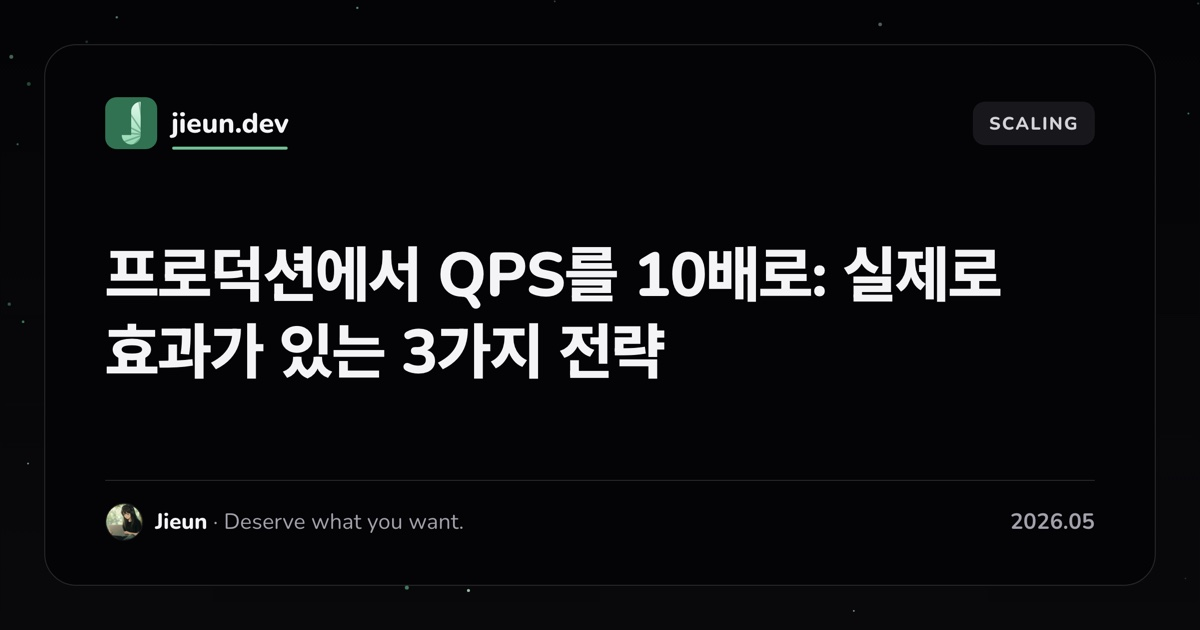
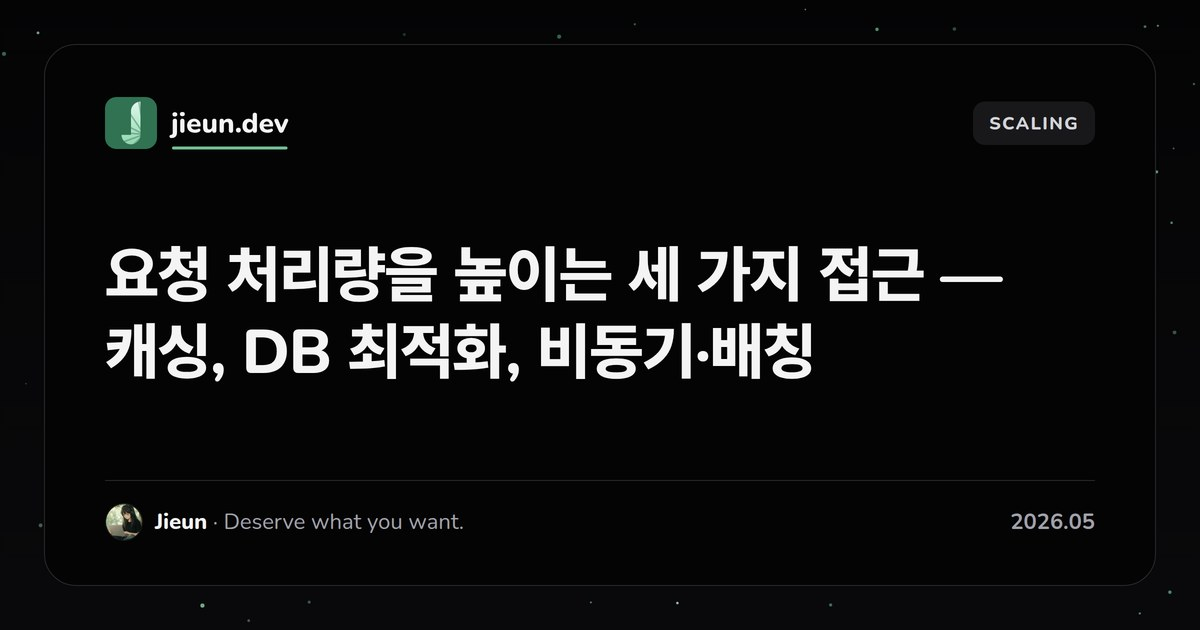
docs: qualify QPS claims with load-test evidence

diff --git a/src/content/blog/ko/scaling-qps-10x-in-production-3-strategies-that-actually-move-the-needle.md b/src/content/blog/ko/scaling-qps-10x-in-production-3-strategies-that-actually-move-the-needle.md
@@ -1,24 +1,40 @@
 ---
-title: '프로덕션에서 QPS를 10배로: 실제로 효과가 있는 3가지 전략'
-description: '"더 빠르게 만들어라"는 막연해 보이지만 아닙니다. 결국 같은 세 가지 수로 수렴합니다 — 캐싱, 데이터베이스 최적화, 그리고 요청에서 부수적인 일을 들어내기.'
+title: '요청 처리량을 높이는 세 가지 접근 — 캐싱, DB 최적화, 비동기·배칭'
+description: '캐싱, DB 최적화, 비동기·배칭이 줄이는 작업을 살펴봅니다. 부하 테스트 기록과 설명용 계산을 구분하고, 처리량 개선을 판단할 측정 조건을 정리합니다.'
 subtitle: "서비스의 요청 처리량을 높이는 접근을 캐싱, 데이터베이스 최적화, 부수 작업 분리로 나누어 설명합니다. 각 전략이 줄일 수 있는 병목은 무엇이며, 적용 전에 어떤 조건을 확인해야 하는지 살펴봅니다."
 pubDate: 2026-05-29
+updatedDate: 2026-10-18
 tags: ['system-design', 'caching', 'performance', 'optimization']
 category: scaling
 cover: /covers/scaling-qps-10x-in-production-3-strategies-that-actually-move-the-needle.webp
-coverAlt: '프로덕션에서 QPS를 10배로: 실제로 효과가 있는 3가지 전략'
+coverAlt: '요청 처리량을 높이는 세 가지 접근 — 캐싱, DB 최적화, 비동기·배칭'
 ---
 ## 들어가며
 
-> "더 빠르게 만들어라"는 말은 막연한 지시처럼 들립니다. 하지만 그렇지 않습니다. 성능 작업은 알고 보면 백엔드 엔지니어링에서 가장 _배우기 쉬운_ 영역 중 하나인데, 거의 항상 똑같은 세 가지 수(手)로 귀결되기 때문입니다. 아래는 제가 프로덕션에 실제로 적용했던 세 가지이며, 이 작업으로 QPS를 10배 이상 끌어올렸습니다.
+요청 처리량을 높이려면 먼저 어떤 작업이 요청을 붙잡고 있는지 확인해야 합니다. 같은 데이터를 반복해서 조회하는지, DB 쿼리와 커넥션 대기가 긴지, 응답 전에 끝낼 필요가 없는 외부 호출이 섞여 있는지에 따라 선택이 달라집니다.
 
-지금 제가 실제로 생각하는 방식 그대로 하나씩 짚어 보겠습니다. **병목이 생기는 이유 → 고치는 방법 → 실제 효과** 순서입니다.
+이 글에서는 캐싱, 데이터베이스 최적화, 비동기·배칭이 각각 줄이는 작업과 그 대가를 설명합니다. 아래의 코드와 시간 계산은 원리를 보여주는 예시입니다. 실제 부하 테스트 기록은 별도로 구분합니다.
+
+> [!NOTE]
+> 초판에서는 이 세 가지 적용으로 프로덕션 QPS가 10배 이상 늘었다고 서술했습니다. 2026년 10월 18일 관련 GitHub 이슈와 부하 테스트 저장소를 다시 확인했지만, 같은 API·인프라·부하 조건에서 그 개선 배수를 입증하는 전후 기록은 확인하지 못했습니다. 제목과 결론을 수정하고, 근거를 확인하지 못한 적용 사례와 수치는 설명용 예시로 구분했습니다.
+
+### 확인한 부하 테스트 기록의 범위
+
+| 기록 | 측정 조건 | 확인된 결과 | 해석 범위 |
+| --- | --- | --- | --- |
+| 2026-05-06 메시지 API smoke | 목표 100 TPS, 2분, sender-channel pair 2,720개 순환, expected trace off | 성공 전송 99.67건/초, HTTP p95 59.42ms, 5xx 1건 | 5xx 0건 기준을 충족하지 못한 실행입니다. 최적화 전후 비교가 아닙니다. |
+| 같은 날 1,000 TPS smoke | 같은 메시지 전송 시나리오에서 목표 부하와 VU 설정 증가 | HTTP 177.65 RPS, 성공 전송 99.86건/초, HTTP 실패율 43.79% | 목표 부하를 10배로 올린 실행입니다. 처리량 10배 달성을 뜻하지 않습니다. |
+| 2026-03-05 WebSocket pub/sub 테스트 | 서버 2대, 각각 16 vCPU·58GB, 총 10만 연결, 단계별 90초 | Step 3 합산 23,504 TPS, 두 클라이언트 중 높은 p99 905.41ms | DB 저장·HTTP 메시지 API·푸시를 제외한 인프라 테스트입니다. 메시지 API QPS와 직접 비교할 수 없습니다. |
+
+앞의 두 기록은 `witim-load-test`의 `results/2026-05-06-100tps-off-smoke-results.md`와 `results/2026-05-06-1k-tps-smoke-results.md`, 세 번째는 `25k-tps-message-load-test`의 `pub&sub/STRESS-TEST-REPORT-2026-03-05.md`를 기준으로 확인했습니다. WebSocket Step 3에는 소량의 오류와 패킷 로스도 기록돼 있어 무손실 처리량으로 표현하지 않습니다.
+
+이 표는 개선 전후 비교표가 아닙니다. **목표 요청률, 실제 요청률, 성공 처리량, 전달 완료율은 서로 다른 지표**이며, 개선 배수를 계산하려면 같은 경로와 성공 기준의 전후 결과가 필요합니다.
 
 <a id="먼저-qps란-_무엇_이며-왜-한계에-부딪히는가"></a>
 
 ## 먼저, QPS란 _무엇_이며 왜 한계에 부딪히는지
 
-QPS(Queries Per Second)는 그저 **초당 처리하는 요청 수**입니다. 하지만 의지만으로 높일 수는 없습니다. QPS는 다음 공식에 묶여 있습니다.
+이 글에서는 QPS를 API가 초당 처리하는 요청 수라는 의미로 사용합니다. DB 쿼리 수나 WebSocket 메시지 수와는 측정 단위를 구분해야 합니다. 다음 식은 워커 하나가 한 번에 요청 하나를 처리하고 충분한 요청이 들어오는 상황을 단순화한 모델입니다.
 
 ```plaintext
 QPS ≈ number of concurrent workers / time to process one request
@@ -39,14 +55,14 @@ QPS = cashiers / time-per-customer   →   3 / 0.1s = 30 QPS
 
 문제는 손님이 그보다 빠르게 몰려들 때 시작됩니다. 30-QPS짜리 가게에 **초당 40명의 손님**이 들어오면, 줄은 매초 10명씩 늘어나고 → 대기 시간이 급격히 길어지고 → 손님이 나가버리며(타임아웃) → 가게가 멈춥니다(장애). 서버도 정확히 똑같이 동작합니다.
 
-**그래서 QPS를 높이는 방법은 딱 두 가지뿐입니다.**
+이 글에서는 동시 처리 자원을 늘리는 방법 외에, 다음 두 방향을 살펴봅니다.
 
 1.  **분모를 줄이기** (요청당 시간) → 캐싱, DB 최적화
     
 2.  **분모에서 작업을 _빼내기_** — 요청 안에서 반드시 일어날 필요가 없는 모든 것 → 비동기 / 배칭
     
 
-아래 세 가지 전략은 정확히 이 두 개의 레버를 공략합니다. 그리고 실무에서 튜닝을 시작할 때는 이 순서대로 손을 대게 됩니다. 이것이 가장 가성비가 좋은 순서이기 때문입니다. **캐싱 → DB 최적화 → 비동기/배칭.**
+아래 세 가지 전략은 이 두 방향을 구체화합니다. 적용 순서는 고정하지 않고, 지연 시간·오류·자원 사용량을 측정해 확인한 병목에 따라 정합니다.
 
 * * *
 
@@ -58,16 +74,7 @@ QPS = cashiers / time-per-customer   →   3 / 0.1s = 30 QPS
 
 캐싱은 근본적으로 **비싼 연산의 결과를 값싼 곳에 저장해 두고 잠시 동안 재사용하는 것**입니다. 여기서 중요한 두 단어는 _비싼_과 _잠시 동안_입니다.
 
-얼마나 비싼가? 캐싱이 가성비 1위 최적화인 이유는 이 응답 시간 격차에 있습니다.
-
-| 데이터 소스 | 대략적인 latency | vs. DB |
-| --- | --- | --- |
-| 애플리케이션 메모리 (인프로세스) | ~0.001ms | ~50,000배 빠름 |
-| Redis (동일 네트워크) | ~0.5–1ms | ~50–100배 빠름 |
-| DB, 단순 쿼리 (인덱스 있음) | ~10ms | 기준 |
-| DB, 복잡한 쿼리 (JOIN/집계) | ~50–200ms | — |
-
-그래서 어떤 결과를 DB에서 한 번 가져오는 데 50ms가 걸렸다면, 그것을 Redis에 캐싱해 두면 그 이후부터는 ~1ms 만에 반환할 수 있습니다. **요청당 시간(분모)이 50배 줄어들고, QPS는 그에 맞춰 곧바로 뛰어오릅니다.**
+캐시의 효과는 적중률과 캐시 조회 비용, 원래 작업의 비용에 따라 달라집니다. 예를 들어 DB 조회 50ms를 캐시 조회 1ms로 대체한다면 **그 조회 구간**은 짧아집니다. 두 값은 설명을 위한 가정이며, 전체 API 처리 시간이 50분의 1로 줄거나 QPS가 50배 오른다는 뜻은 아닙니다. 인증·직렬화·네트워크와 다른 DB 작업은 그대로 남을 수 있습니다.
 
 ### 다층 캐싱(Multi-layer caching)
 
@@ -80,13 +87,13 @@ User request
 ① CDN cache (CloudFront/CloudFlare)   ← if it hits here, it never reaches your server (best)
    │ miss
    ▼
-② App memory cache (in-process LRU)   ← 0.001ms, but lives per-server
+② App memory cache (in-process LRU)   ← per-server cache
    │ miss
    ▼
-③ Redis (distributed cache)           ← 1ms, shared across all servers
+③ Redis (distributed cache)           ← shared across servers
    │ miss
    ▼
-④ Database (the source of truth)      ← 50ms; reaching here is a "cache miss"
+④ Database (the source of truth)      ← queried on a cache miss
 ```
 
 -   **① CDN** — 정적 자산(이미지, JS, CSS)이나 변하지 않는 공개 API 응답. 사용자 근처의 엣지에서 끝나므로, 여러분의 서버는 그 트래픽을 아예 보지도 못합니다.
@@ -132,11 +139,13 @@ async function updateProduct(id: string, data) {
 }
 ```
 
-> ⚠ 흔한 실수: 쓰기 후에 캐시를 **삭제하는 것**(`del`)이 보통 **갱신하는 것**(`set`)보다 안전합니다. 두 개의 쓰기가 동시에 갱신하면 오래된 값이 경쟁에서 이길 수 있습니다. 삭제하면 "다음번에 DB에서 새로 가져와라"라는 의미가 되어 항상 최신 상태를 반영합니다.
+> ⚠ 흔한 실수: 쓰기 후에 캐시를 **삭제하는 것**(`del`)이 보통 **갱신하는 것**(`set`)보다 안전합니다. 두 개의 쓰기가 동시에 갱신하면 오래된 값이 경쟁에서 이길 수 있습니다. 다만 읽기와 쓰기가 엇갈리면 삭제 이후에도 오래된 조회 결과가 캐시에 저장될 수 있습니다. 무효화만으로 최신성을 보장하지는 않으며, 데이터의 정합성 요구에 맞는 별도 처리가 필요합니다.
 
-### 💡 제가 적용한 것 — 3w CMS의 "조회수 배칭"
+<a id="-제가-적용한-것--3w-cms의-조회수-배칭"></a>
 
-게시글의 조회수는 교과서적인 **"읽기가 많고, 정확성은 그다지 중요하지 않은"** 종류의 데이터입니다. 그런데 원래 설계는 _조회가 발생할 때마다_ DB `UPDATE`를 날렸습니다.
+### 설명용 예시 — 조회수 배칭
+
+조회수가 즉시 반영되지 않아도 되는 게시판을 가정해 보겠습니다. 조회가 발생할 때마다 DB `UPDATE`를 실행하던 것을, 카운터를 모아 주기적으로 반영하는 방식으로 바꿀 수 있습니다. 이 절의 코드와 숫자는 실제 개선 배수를 측정한 기록이 아닙니다.
 
 **이전 — 조회 1회 = 쓰기 쿼리 1회:**
 
@@ -150,7 +159,7 @@ UPDATE posts SET view_count = view_count + 1 WHERE id = ?;
 **이후 — Redis 카운터 + 5분마다 배치 플러시:**
 
 ```ts
-// On view: increment a Redis counter, not the DB (0.5ms, no lock)
+// Conceptual example: buffer view increments in Redis
 await redis.incr(`view:post:${postId}`);
 
 // A job every 5 minutes: collect and apply to the DB in one shot
@@ -167,15 +176,19 @@ async function flushViewCounts() {
 }
 ```
 
-**결과:** 5분 동안 1,500회의 조회가 DB에는 **단 한 번의 UPDATE**로 반영됩니다. 쓰기 부하가 **1,500배** 줄었습니다. 조회수는 최대 5분까지 지연될 수 있지만, 조회수에게 그 정도 지연은 완전히 무해합니다. 트레이드오프가 완벽하게 들어맞습니다.
+**계산 예시:** 같은 게시글에 5분 동안 조회 1,500회가 발생하고 이를 한 번에 정상 반영한다면, 해당 게시글의 DB UPDATE 횟수는 1,500회에서 1회로 줄어듭니다. 이는 DB 쓰기 횟수의 감소이며 서비스 QPS 개선 배수가 아닙니다.
+
+위 구현을 운영에 사용하려면 실패 처리도 필요합니다. `GETDEL` 뒤 DB 갱신이 실패하면 회수한 값이 유실될 수 있고, 재시도 시 중복 반영도 막아야 합니다. 5분의 반영 지연과 장애 시 허용할 손실 범위를 먼저 정해야 합니다.
 
 > 이것은 캐싱(Redis에 임시 저장)과 배칭(모아 두었다가 한 번에 플러시)을 결합한 것으로, 곧바로 전략 #3으로 이어집니다.
 
 * * *
 
-## 2\. 데이터베이스 최적화 — 병목의 80%가 사는 곳
+<a id="2-데이터베이스-최적화--병목의-80가-사는-곳"></a>
 
-애플리케이션 코드는 보통 마이크로초 단위로 실행되지만, DB는 밀리초에서 수백 밀리초 단위로 동작합니다. 그래서 **대부분의 백엔드 병목은 DB에서 발생합니다.** 그렇기 때문에 캐싱 다음으로 손대는 것이 바로 DB입니다. 세 가지가 한 세트로 따라옵니다.
+## 2\. 데이터베이스 최적화 — 쿼리와 커넥션 대기 확인하기
+
+DB가 병목인지는 쿼리 실행 시간, 락 대기, 커넥션 풀 대기를 나눠 확인해야 합니다. 문제가 확인된 지점에 따라 인덱스, 풀 설정, 읽기 분산을 검토합니다.
 
 > **대전제: 가장 빠른 쿼리는 아예 실행하지 않은 쿼리입니다.** 읽기 최적화의 최우선 순위는 영리한 쿼리를 작성하는 것이 아니라, **애초에 DB에 도달하는 빈도를 줄이는 것**입니다. 그래서 실무에서는 DB를 직접 두들기기 전에 다음 순서로 읽기를 걸러냅니다.
 > 
@@ -201,7 +214,9 @@ async function flushViewCounts() {
 > -   하나의 테이블은 서로 다른 검색 패턴을 위해 **여러 개**의 인덱스를 가질 수 있고, DB는 쿼리마다 가장 유용한 것을 고릅니다. (이것이 _같은 SQL_이 어떤 인덱스가 존재하느냐에 따라서만 빠르거나 느려질 수 있는 이유입니다.)
 >     
 
-**구체적인 예시 — 10만 행짜리 테이블에서 한 사용자의 주문 가져오기:**
+**설명용 예시 — 10만 행짜리 테이블에서 한 사용자의 주문 가져오기:**
+
+아래 시간은 인덱스에 따른 차이를 설명하기 위한 가정입니다. 실제 성능은 데이터 분포와 실행 계획을 측정해야 알 수 있습니다.
 
 ```sql
 SELECT * FROM orders WHERE user_id = 'u_123' ORDER BY created_at DESC LIMIT 20;
@@ -222,7 +237,7 @@ SELECT * FROM orders WHERE user_id = 'u_123' ORDER BY created_at DESC LIMIT 20;
 
 ### 2-2. 커넥션 풀링 — "매번 새 커넥션을 열지 않습니다"
 
-새 DB 커넥션을 여는 데는 수십 밀리초가 듭니다(**TCP handshake + 인증**). 쿼리 자체가 1ms인데 요청마다 그렇게 하는 것은 터무니없습니다. 커넥션에만 30ms를 태우게 됩니다.
+새 DB 커넥션에는 TCP 연결과 인증 비용이 듭니다. 이 비용이 실제 요청 시간에서 차지하는 비중을 확인하고, 연결을 재사용해 반복 비용을 줄일 수 있습니다.
 
 **커넥션 풀**은 N개의 커넥션을 미리 만들어 두고, 빌려주고 다시 회수해서 재사용합니다.
 
@@ -239,14 +254,14 @@ SELECT * FROM orders WHERE user_id = 'u_123' ORDER BY created_at DESC LIMIT 20;
     
 -   **너무 큼**: DB에 동시 커넥션이 과도하게 몰립니다 → 각 커넥션이 DB 메모리를 잡아먹으므로 DB의 메모리/CPU 사용량이 급격히 올라갑니다.
     
--   **경험칙**: `CPU cores × 2–4` 정도에서 시작해 부하 테스트로 튜닝합니다.
+-   **측정 기준**: DB의 연결 한도와 앱 프로세스 수를 함께 보고, 풀 대기 시간·DB 부하를 측정하며 조정합니다.
     
 
 앱 서버를 늘릴수록 각 서버가 자기 풀을 갖게 되므로 전체 DB 커넥션이 곱절로 늘어납니다. 그래서 **PgBouncer** 같은 풀러(pooler)를 앞단에 별도 계층으로 두는 경우가 많습니다.
 
 ### 2-3. 읽기 replica (읽기/쓰기 분리)
 
-대부분의 서비스는 **읽기:쓰기 비율이 9:1 이상**입니다(글 하나 쓰면 수백 명이 읽습니다). 그래서 읽기를 여러 replica에 분산하면 단일 마스터의 부담을 크게 덜어줍니다.
+읽기 비중이 높고 복제 지연을 허용할 수 있는 워크로드라면, 읽기를 여러 replica에 분산하는 방법을 검토할 수 있습니다. 먼저 해당 서비스의 실제 읽기·쓰기 비중을 측정해야 합니다.
 
 ```plaintext
                 ┌─ writes (INSERT/UPDATE/DELETE) ─→ [Master DB]
@@ -254,7 +269,7 @@ SELECT * FROM orders WHERE user_id = 'u_123' ORDER BY created_at DESC LIMIT 20;
                 └─ reads (SELECT) ─→ [Replica 1] [Replica 2] [Replica 3]
 ```
 
-**효과:** 읽기를 3개의 replica로 분산하면 마스터는 쓰기에 집중하고, 읽기 처리 용량은 사실상 3배가 됩니다.
+**기대 효과:** 읽기를 여러 replica로 분산할 수 있습니다. 다만 부하의 균등 분배, 복제 비용, 쿼리 특성에 따라 효과가 달라지므로 replica 수를 그대로 처리량 개선 배수로 볼 수는 없습니다.
 
 > ⚠ **복제 지연(Replication lag)**: 마스터에 쓴 데이터가 replica로 복사되기까지 수 밀리초에서 수백 밀리초가 걸립니다. 그래서 **read-after-write** 상황(예: 댓글을 달자마자 곧바로 댓글 목록을 조회)에서는 replica에서 읽어서 "어라, 내 댓글이 어디 갔지?"를 보게 됩니다. 그런 읽기는 반드시 **마스터로 강제**해야 합니다.
 
@@ -269,7 +284,7 @@ const comments = await writeClient.comment.findMany(...); // read from master
 
 ### 세 가지가 어떻게 연결되는가
 
-이것들은 따로 노는 것이 아니라 하나의 묶음입니다. **인덱스는 단일 쿼리를 빠르게 하고, 풀은 커넥션 낭비를 없애며, replica는 읽기를 분산합니다.** 인덱스로 쿼리를 100ms에서 1ms로 줄이면 같은 풀이 이제 100배 더 많은 요청을 처리할 수 있으니, 세 효과가 _곱해집니다_.
+**인덱스는 쿼리 실행 비용을 줄이고, 풀은 연결을 재사용하며, replica는 읽기를 분산합니다.** 한 구간이 빨라져도 다른 구간이 병목으로 남을 수 있습니다. 개별 쿼리의 개선 배수를 곱해서 전체 API 처리량을 예측하지 않고, 변경 후 같은 부하로 다시 측정해야 합니다.
 
 * * *
 
@@ -279,7 +294,7 @@ const comments = await writeClient.comment.findMany(...); // read from master
 
 ### 3-1. 메시지 큐를 통한 비동기 처리
 
-회원가입을 예로 들 수 있습니다. 사용자 관점에서 "가입 완료"란 **사용자가 DB에 존재한다**는 것, 그게 전부입니다. 그런데 환영 이메일 전송(외부 SMTP 호출, 500ms)을 그 요청 안에서 _동기적으로_ 하면, 사용자는 그저 이메일이 발송되기를 앉아서 기다리는 꼴이 됩니다.
+다음은 DB 저장 10ms, 이메일 호출 500ms, 큐 등록 2ms를 가정한 설명용 예시입니다. 회원가입을 예로 들 수 있습니다. 사용자 관점에서 "가입 완료"란 **사용자가 DB에 존재한다**는 것, 그게 전부입니다. 그런데 환영 이메일 전송(외부 SMTP 호출, 500ms)을 그 요청 안에서 _동기적으로_ 하면, 사용자는 그저 이메일이 발송되기를 앉아서 기다리는 꼴이 됩니다.
 
 **이전 — 동기 (가입 API가 510ms 소요):**
 
@@ -304,7 +319,7 @@ async function signup(data) {
 // A separate worker consumes the queue and actually sends the email (in the background)
 ```
 
-**결과:** 510ms → 12ms. **요청당 시간이 ~40배 줄었고**, QPS는 그에 맞춰 올라갑니다. 이메일은 1초 뒤에 도착하고 아무도 눈치채지 못합니다.
+**계산 예시:** 이 가정에서는 응답 전 작업 시간이 510ms에서 12ms로 줄어듭니다. 실제 QPS가 같은 비율로 늘어난다는 뜻은 아닙니다. 이메일 작업은 여전히 남아 있으므로 워커 처리량, 큐 대기 시간, 최종 발송 성공률을 함께 봐야 합니다.
 
 **큐로 밀어 넣기 좋은 후보들:**
 
@@ -317,7 +332,7 @@ async function signup(data) {
 -   서드파티 API 호출 (느리고 실패하기 쉬움)
     
 
-도구: Kafka, RabbitMQ, Redis Streams, AWS SQS 등. 덤으로 **재시도와 실패 격리**를 공짜로 얻습니다. 이메일 서버가 잠깐 죽더라도 작업은 큐에 쌓였다가 복구되면 발송되며, 가입 자체는 결코 블로킹되지 않습니다.
+도구: Kafka, RabbitMQ, Redis Streams, AWS SQS 등. 큐를 도입할 때는 재시도·백오프·중복 처리 방지와 실패 관측을 함께 설계해야 합니다. 큐 등록 자체가 실패하는 경우도 별도로 처리해야 합니다.
 
 ### 3-2. 배칭 — "많이 모아서 한 번에 처리하라"
 
@@ -356,9 +371,11 @@ const authors = await db.user.findMany({ where: { id: { in: authorIds } } });
 // 1 + 1 = 2 queries  (DataLoader does this collecting automatically)
 ```
 
-### 💡 제가 적용한 것 — 3w CMS의 "50ms 윈도우 알림 집계"
+<a id="-제가-적용한-것--3w-cms의-50ms-윈도우-알림-집계"></a>
 
-우리 알림 시스템에서는 한 사용자가 아주 짧은 순간에 이벤트 폭주를 겪는 경우가 있었습니다(예: 그룹 채팅에서 1초 안에 메시지 10개). 이벤트마다 푸시를 하나씩 쏘면 이렇게 됩니다.
+### 설명용 예시 — 50ms 윈도우 알림 집계
+
+짧은 시간에 같은 사용자에게 알림 10개가 발생하는 상황을 가정합니다. 이벤트마다 푸시를 하나씩 보내면 다음 문제가 생길 수 있습니다.
 
 -   사용자 휴대폰이 **10번** 울림 → 좋지 않은 UX
     
@@ -385,7 +402,7 @@ function flushWindow(userId) {
 }
 ```
 
-**결과:** 이벤트가 몰리는 상황에서 푸시 호출이 이전의 **몇 분의 일** 수준으로 떨어졌고, 사용자는 여러 개의 알림 대신 요약 하나를 받았습니다. 성능과 UX를 함께 개선했습니다. 50ms는 사람이 인지하기 어려운 시간이라, 체감 비용이 거의 없는 트레이드오프였습니다.
+**계산 조건:** 같은 사용자의 알림 10개가 하나의 50ms 윈도우에 들어왔을 때만 호출을 10회에서 1회로 묶을 수 있습니다. 1초 동안 발생한 알림이 모두 같은 묶음에 들어가는 것은 아닙니다. 실제 감소율은 이벤트 도착 간격에 달려 있습니다. 이 사례의 적용 전후 측정 기록은 확인하지 못했으므로 운영 성과로 제시하지 않습니다.
 
 ### 3-3. 디바운싱 / 스로틀링 — 클라이언트 쪽 배칭
 
@@ -404,18 +421,14 @@ function flushWindow(userId) {
 
 <a id="마무리--왜-이-순서이고-왜-효과가-곱해지는가"></a>
 
-이 세 가지 말고도 방법은 많습니다. 수평 확장(로드 밸런서 + 다중 서버), HTTP/2, gzip/brotli 압축, 정적 자산 분리 등. 하지만 **이 세 가지만 제대로 적용해도 보통 QPS가 10배 이상 올라갑니다.** 그래서 튜닝을 시작할 때는 거의 항상 이 순서로 갑니다(가성비가 가장 좋은 것부터).
+세 접근은 줄이는 작업과 부담하는 비용이 다릅니다. 어느 것을 먼저 적용할지는 측정에서 확인한 병목과 제품의 정합성·지연 허용 범위에 따라 정해야 합니다.
 
-| 순서 | 전략 | 공략 대상 | 한 줄 요약 |
-| --- | --- | --- | --- |
-| 1 | **캐싱** | 요청당 시간 (분모) | 비싼 결과를 값싼 곳에 저장하고 재사용 |
-| 2 | **DB 최적화** | 요청당 시간 (분모) | 쿼리를 인덱싱하고, 커넥션을 풀링하고, 읽기를 복제 |
-| 3 | **비동기 / 배칭** | 작업의 _양_ | 필수가 아닌 작업을 응답 경로에서 빼내기 |
+| 접근 | 줄이려는 작업 | 함께 확인할 지표 |
+| --- | --- | --- |
+| 캐싱 | 같은 데이터를 반복 조회·계산하는 작업 | 적중률, 데이터 최신성, API 지연 |
+| DB 최적화 | 쿼리 실행·커넥션 대기 비용 | 실행 계획, 락·풀 대기, DB 자원 사용 |
+| 비동기·배칭 | 응답 전에 기다리는 작업과 호출 횟수 | 큐 대기, 완료율, 중복·유실, 반영 지연 |
 
-핵심은 **세 가지가 곱해진다**는 것입니다. 캐싱이 읽기의 80%가 DB에 아예 도달하지 못하게 막고(5배), 인덱스가 나머지 20%를 빠르게 하며(10배), 무거운 작업은 큐로 옮겨집니다. 이 이득들은 더해지는 게 아니라 복리로 쌓이며, 총 QPS는 수십 배로 뛰어오릅니다.
+**지연 시간 감소, DB 호출 수 감소, 성공 요청 처리량 증가는 같은 성과가 아닙니다.** 각각의 개선 배수를 곱해 전체 QPS가 수십 배 늘었다고 결론 내릴 수 없습니다.
 
-그리고 이 세 가지 전체를 관통하는 실: **자신의 트레이드오프를 의식적으로 선택하는 것.** 조회수는 5분 지연되어도 되고, 알림은 50ms 동안 묶여도 되며, 이메일은 1초 늦게 도착해도 됩니다. **무엇이 약간 틀려도, 혹은 약간 늦어도 되는지를 아는 것** — 그것이 성능 엔지니어링의 진짜 실력입니다.
-
-* * *
-
-_읽어 주셔서 감사합니다! 이 범주 중 하나에 들어맞는 성능 개선을 적용해 보셨거나, 혹은 이 규칙 중 하나를 어겨서 그 대가를 치르셨다면, 댓글로 이야기를 들려주시면 정말 반갑겠습니다._
+이번에 확인한 기록만으로는 이 세 가지 접근이 프로덕션 QPS를 10배 높였다고 말할 수 없습니다. 개선 배수를 제시하려면 같은 API·데이터셋·인프라·캐시 상태와 부하 패턴에서 변경 전후를 실행하고, 같은 지연·오류율 기준을 만족하는 성공 처리량을 비교해야 합니다. 비동기 작업이 있다면 응답 속도뿐 아니라 작업이 실제로 완료되는지도 함께 검증해야 합니다.
